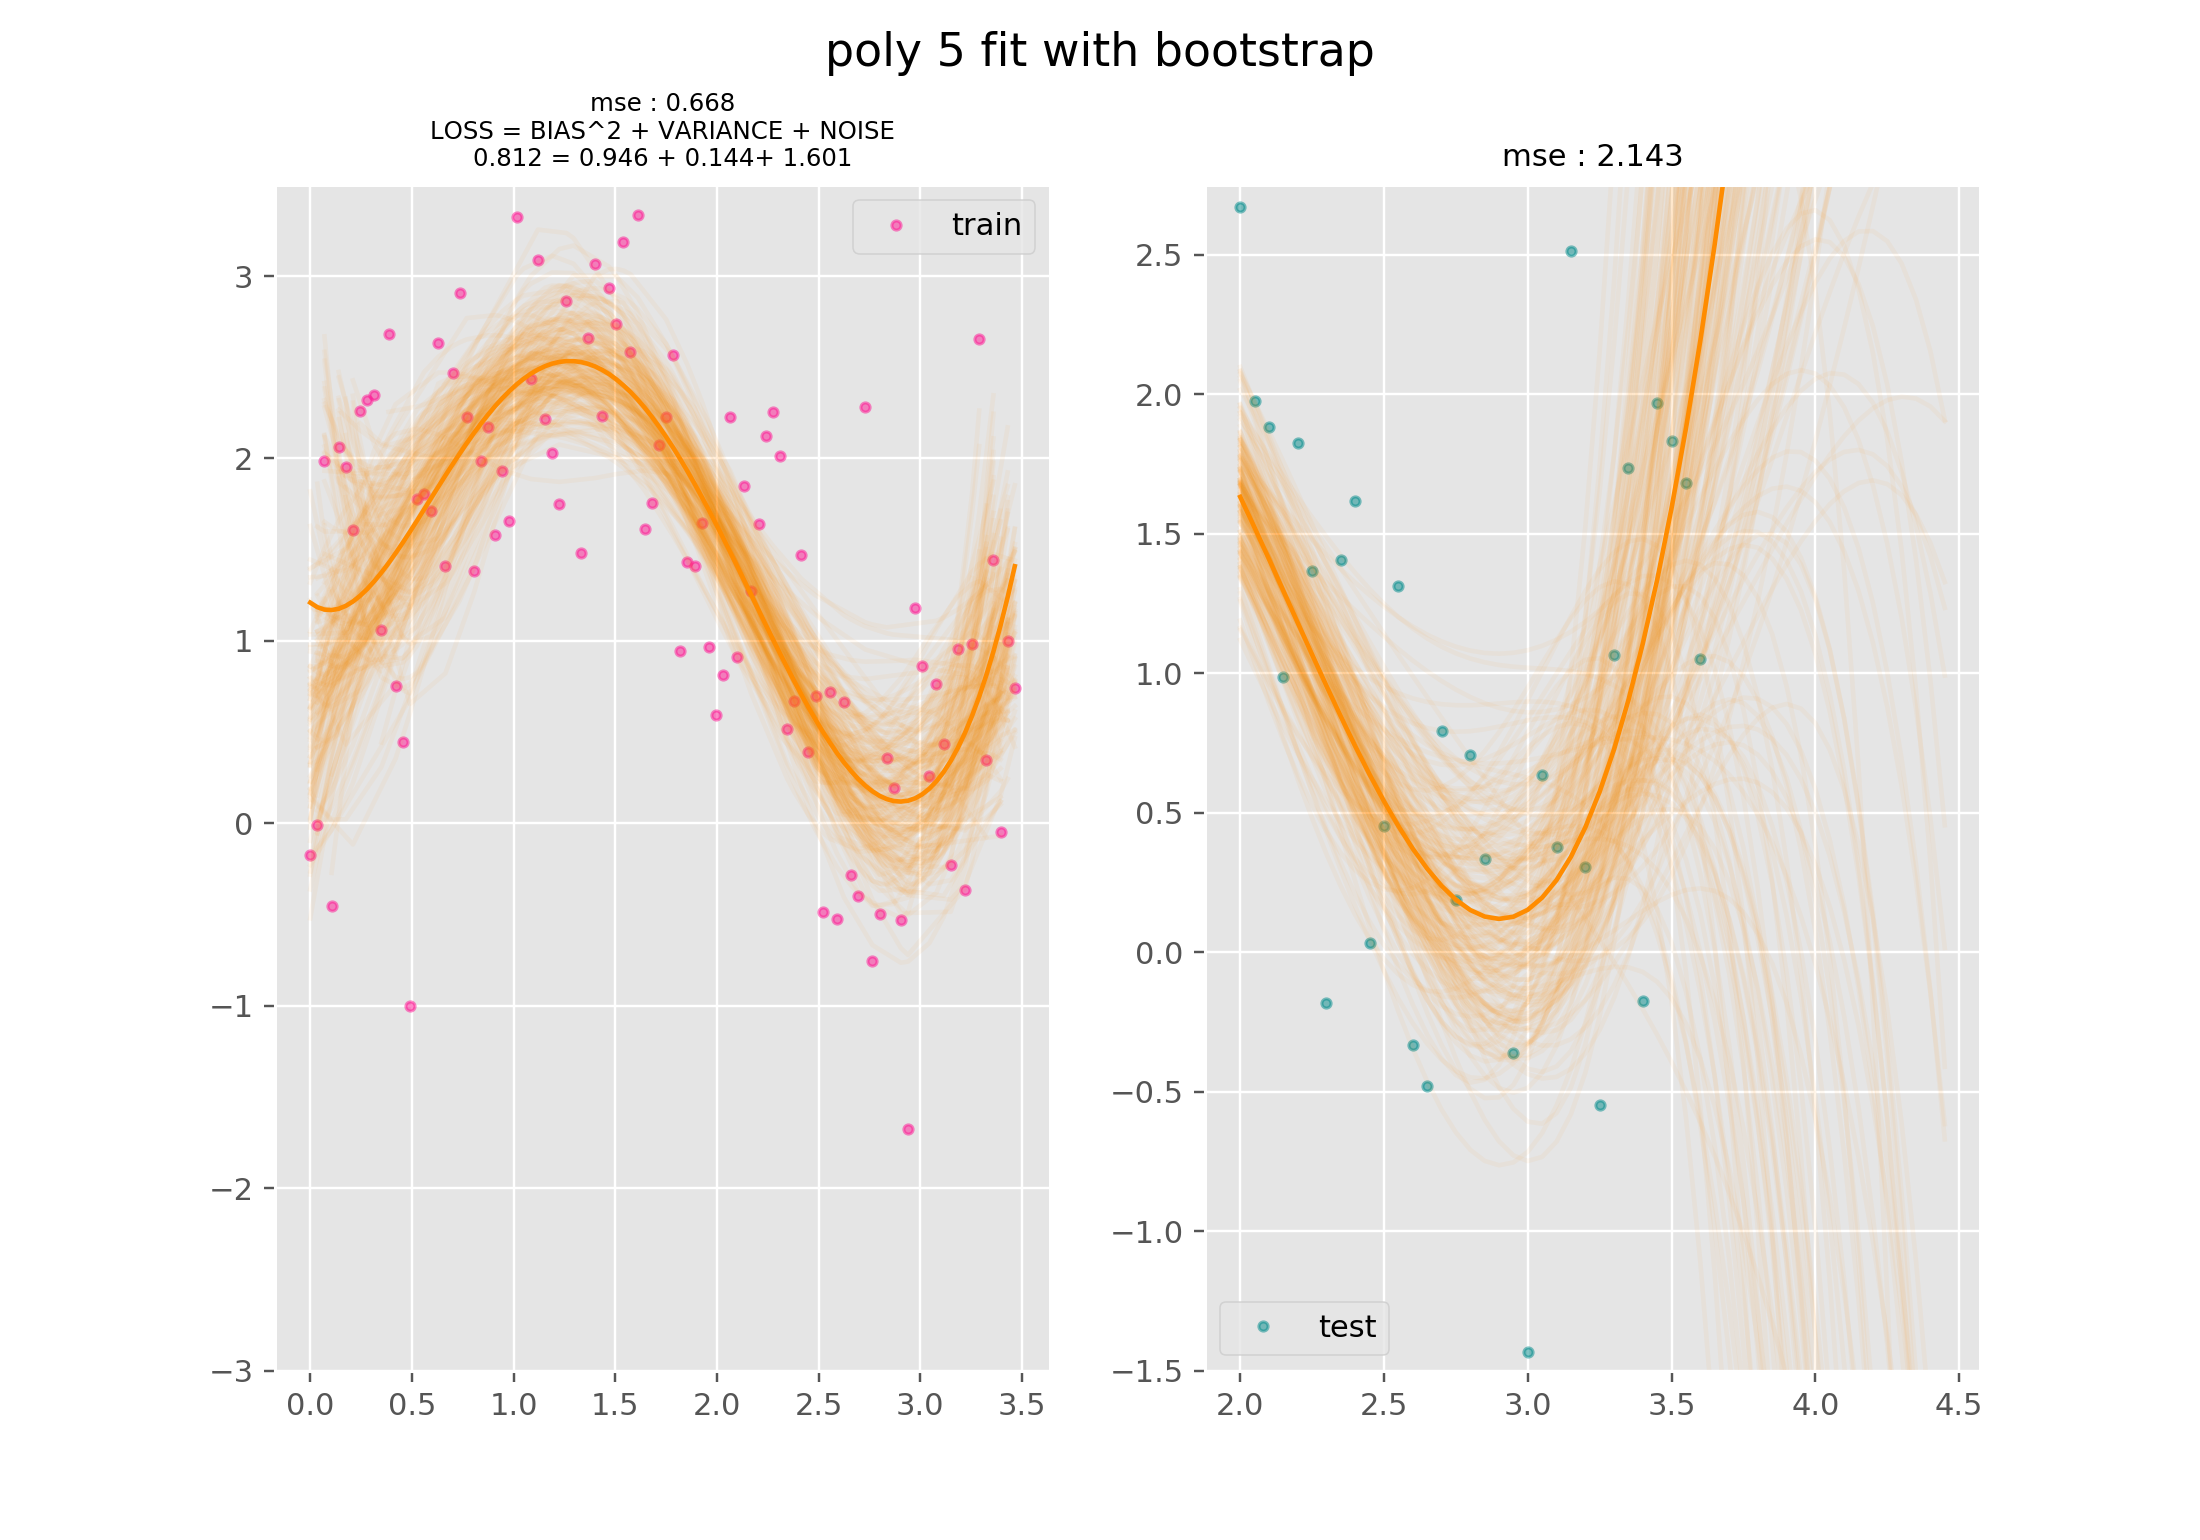
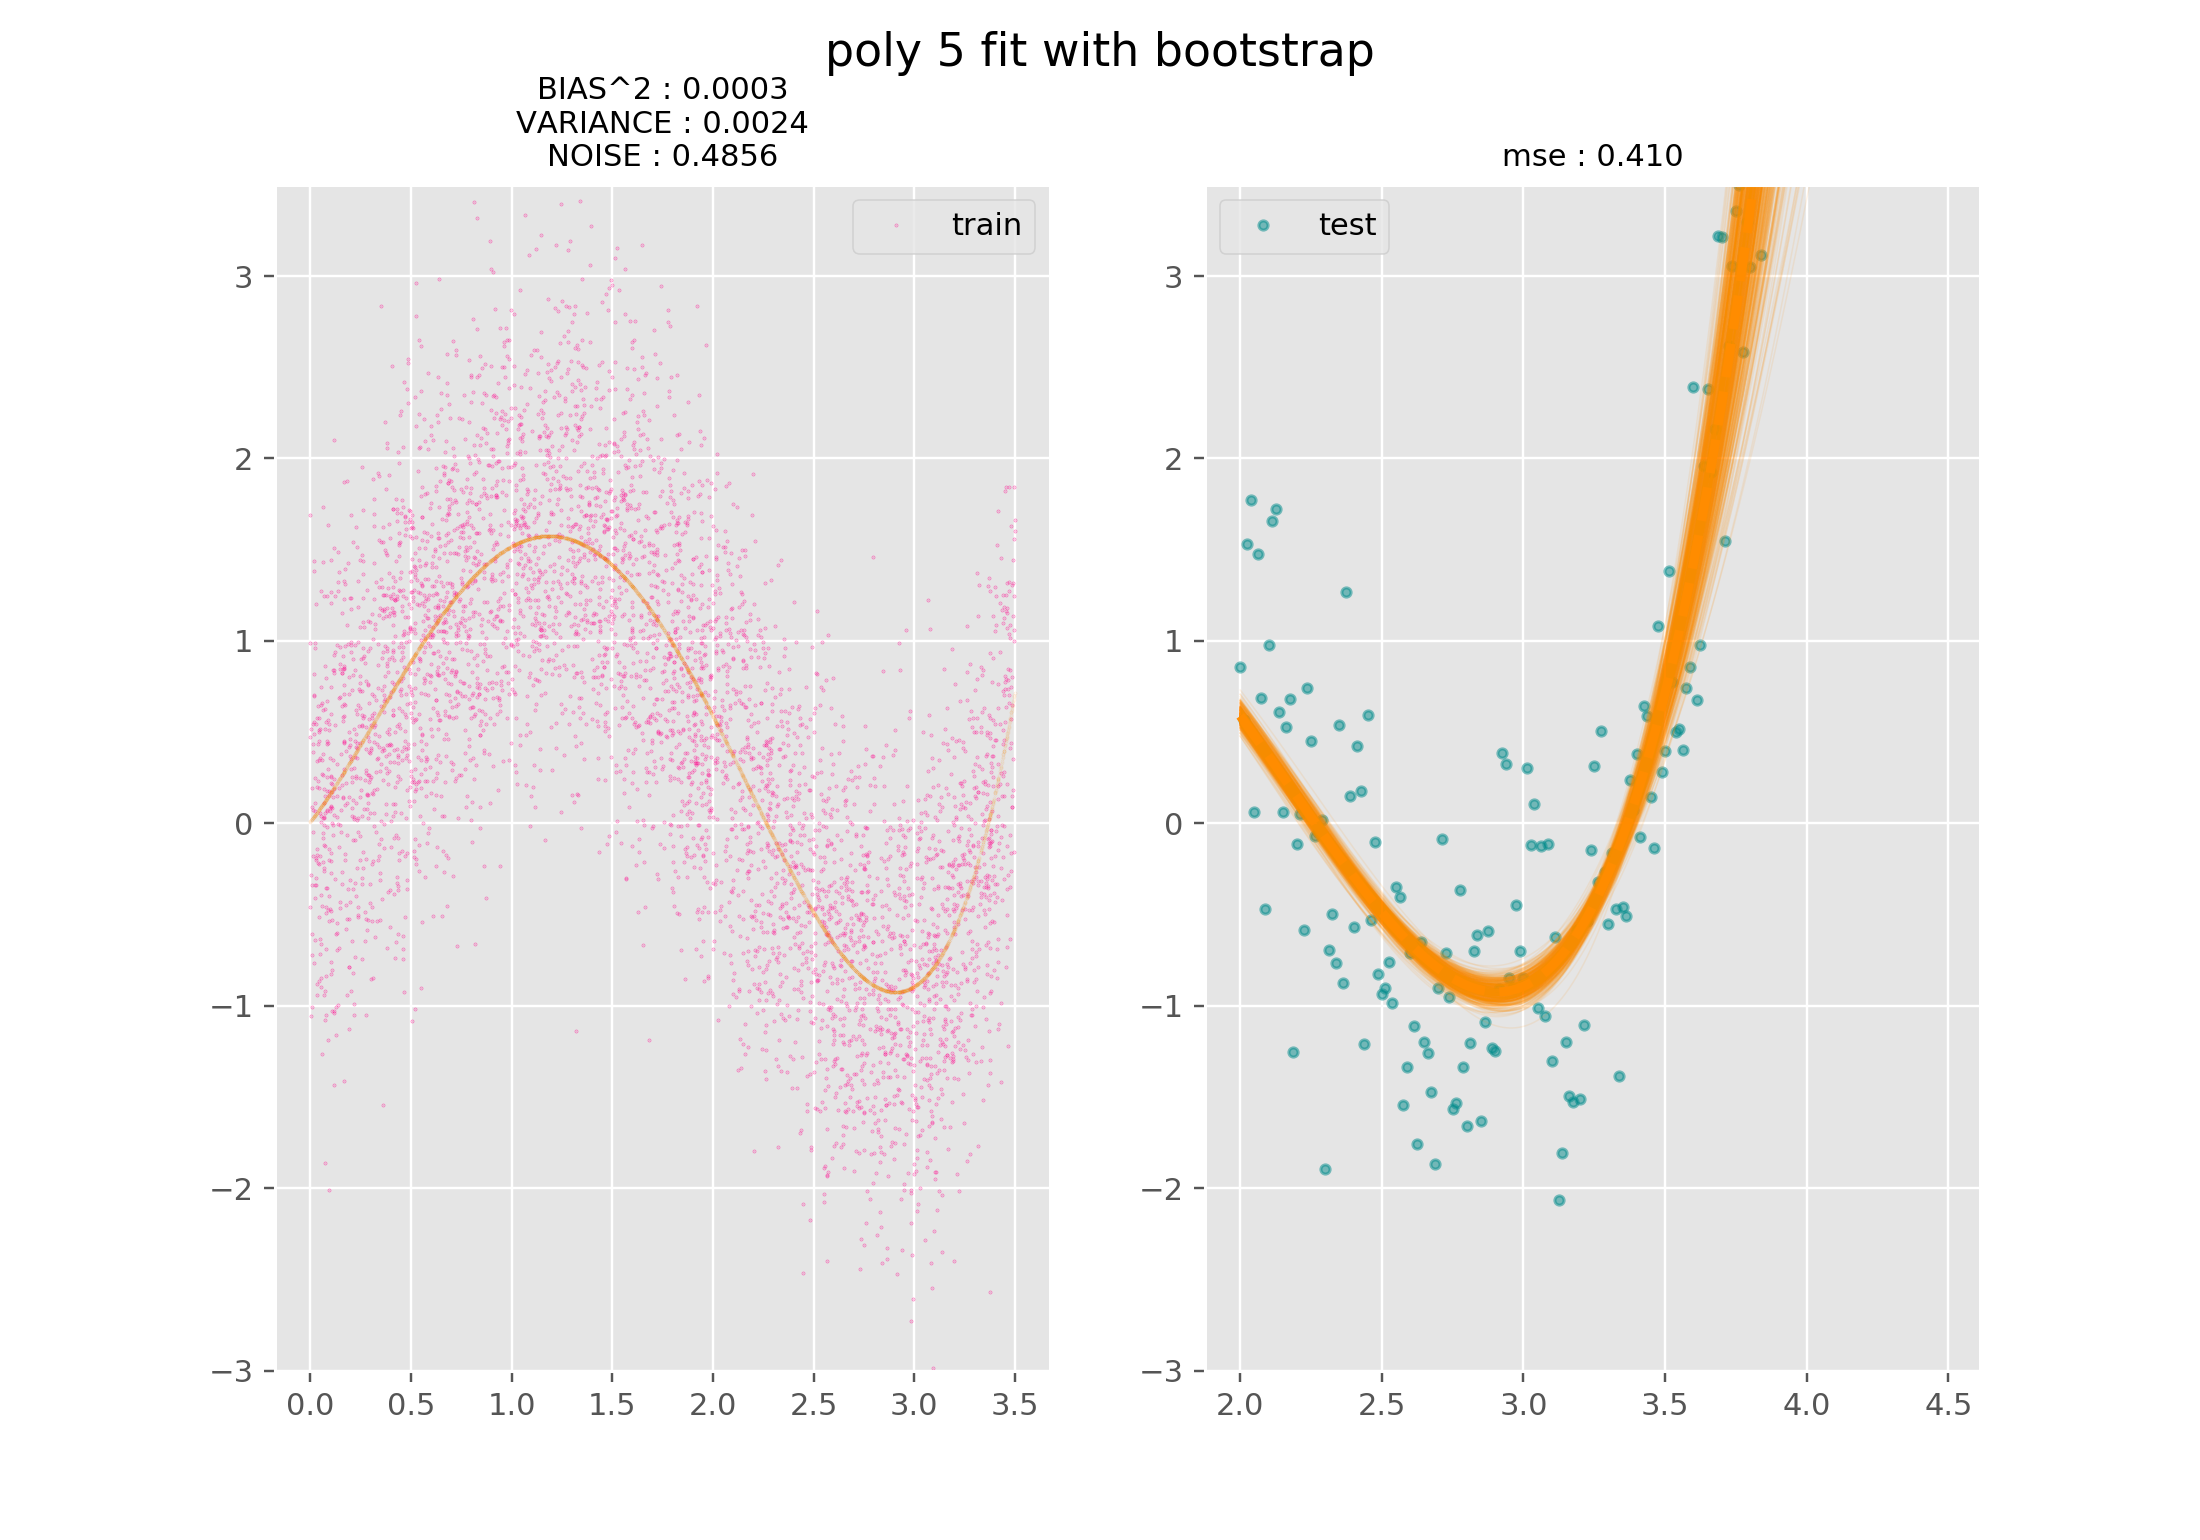
fixed bias variance

diff --git a/bias-variance/polynomial-fit.py b/bias-variance/polynomial-fit.py
@@ -24,10 +24,10 @@ plt.style.use('ggplot')
 
 c_true = [0.3, -1.5, 1.2, 1.5, 0]
 
-x = np.linspace(0, 3.5, 100, endpoint=False)
+x = np.linspace(0, 3.5, 200, endpoint=False)
 y = np.polyval(c_true, x)
 
-x_h = np.linspace(2, 4.5, 50, endpoint=False)
+x_h = np.linspace(2, 4.5, 200, endpoint=False)
 y_h = np.polyval(c_true, x_h)
 
 fig, ax = plt.subplots(figsize=(8, 8))
@@ -41,8 +41,8 @@ ax.legend()
 fig.show()
 fig.savefig('./bias-variance/poly.png', dpi=220)
 
-y += np.random.normal(0, 0.7, len(y)) + np.random.normal(1, 0.2, len(y))
-y_h += np.random.normal(0, 0.7, len(y_h)) + np.random.normal(1, 0.2, len(y_h))
+y += np.random.normal(0, 0.7, len(y))
+y_h += np.random.normal(0, 0.7, len(y_h))
 
 fig, ax = plt.subplots(figsize=(8, 8))
 ax.plot(x, y, '.', color='deeppink', markeredgecolor=None,
@@ -107,64 +107,77 @@ fig.show()
 fig.savefig('./bias-variance/polyfit-w-penalty.png', dpi=220)
 
 # committee
-n_boot = 200
-# poly = [3, 4, 5, 9]
-poly = [3]
+n_samp = 5000
+n_boot = 500
+samp_rate = 0.2
+poly = [3, 4, 5, 9]
+# poly = [3]
 np.random.seed(2019)
+
+x_samp = np.random.uniform(0, 3.5, n_samp)
+y_samp = np.polyval(c_true, x_samp)
+y_samp += np.random.normal(0, 0.7, n_samp)  # SD = 0.7
+
 for p, c in zip(poly, col):
+
+    noise = 0
+    loss = 0
+
     fig, ax = plt.subplots(1, 2, figsize=(10, 7))
     axes = ax.ravel()
-    axes[0].plot(x, y,
-                 '.', color='deeppink', markeredgecolor=None, alpha=0.5,
+    axes[0].plot(x_samp, y_samp,
+                 '.', color='deeppink', markersize=0.5,
+                 markeredgecolor=None, alpha=0.5,
                  label='train')
     axes[1].plot(x_h, y_h,
                  '.', color='darkcyan', markeredgecolor=None, alpha=0.5,
                  label='test')
-    y_ave_tr = np.zeros(len(x))
-    y_tr_df = pd.DataFrame({'y_train_true': np.polyval(c_true, x)})
-    y_ave_te = np.zeros(len(x_h))
-    for b in range(n_boot):
-        samp = np.random.choice(range(len(x)), int(0.5 * len(x)))
-        samp = np.sort(samp)
-        cc = np.polyfit(x[samp], y[samp], p)
-        y_tr = np.polyval(cc, x[samp])
-        y_ave_tr += np.polyval(cc, x) / n_boot
-        y_te = np.polyval(cc, x_h)
-        y_tr_df['y_train_{}'.format(b)] = np.polyval(cc, x)
-        y_ave_te += y_te / n_boot
-        axes[0].plot(x[samp], y_tr, '-', color=c, alpha=0.05)
-        axes[1].plot(x_h, y_te, '-', color=c, alpha=0.05)
-
-    # loss = ((y_tr_df.iloc[:, 1:].values - y_tr_df[
-    #     'y_train_true'].values.reshape(-1, 1)) ** 2 / len(
-    #     x) / n_boot).sum().sum()
-    loss = ((y_tr_df.iloc[:, 1:].values - y.reshape(-1, 1)) ** 2 / len(
-        x) / n_boot).sum().sum()
-
-    bias2 = ((y_ave_tr - y_tr_df['y_train_true']) ** 2 / len(x)).sum()
-    variance = ((y_tr_df.iloc[:, 1:].values - y_ave_tr.reshape(-1, 1)) ** 2 /
-                len(x) / n_boot).sum().sum()
-    noise = ((y_tr_df['y_train_true'].values - y) ** 2 / len(x)).sum()
-
-    eq_str = 'LOSS = BIAS^2 + VARIANCE + NOISE' + \
-             '\n{:.3f} = {:.3f} + {:.3f}+ {:.3f}'.format(
-                 loss, bias2, variance, noise)
-    print(eq_str)
-
-    axes[0].plot(x, y_ave_tr, '-', color=c, alpha=1)
-    axes[1].plot(x_h, y_ave_te, '-', color=c, alpha=1)
     axes[0].set_ylim(-3, 3.5)
-    axes[1].set_ylim(-1.5, 2.75)
+    axes[1].set_ylim(-3, 3.5)
+
+    y_ave_tr = np.zeros(len(x_samp))
+    y_tr_df = pd.DataFrame({'y_train_true': np.polyval(c_true, x_samp)})
+    y_ave_te = np.zeros(len(x_h))
+
+    for b in range(n_boot):
+        samp = np.random.choice(range(len(x_samp)),
+                                int(samp_rate * len(x_samp)),
+                                replace=False)
+        samp = np.sort(samp)
+        cc = np.polyfit(x_samp[samp], y_samp[samp], p)
+        y_tr = np.polyval(cc, x_samp[samp])
+        y_ave_tr += np.polyval(cc, x_samp) / n_boot
+        y_te = np.polyval(cc, x_h)
+        y_tr_df['y_train_{}'.format(b)] = np.polyval(cc, x_samp)
+        y_ave_te += y_te / n_boot
+        # axes[0].plot(x_samp[samp], y_tr,
+        #              '-', color=c, alpha=0.1, linewidth=0.5)
+        axes[1].plot(x_h, y_te, '-', color=c, alpha=0.1, linewidth=0.5)
+
+        noise += ((y_tr_df['y_train_true'].values - y_samp) ** 2).mean()
+        loss += ((np.polyval(cc, x_samp) - y_samp) ** 2).mean()
+
+    loss /= n_boot
+    noise /= n_boot
+    bias2 = ((y_ave_tr - y_tr_df['y_train_true']) ** 2).mean()
+    variance = ((y_tr_df.iloc[:, 1:].values - y_ave_tr.reshape(-1, 1)) **
+                2).mean().mean()
+    eq_str = 'LOSS = {:.4f}\nBIAS^2 + VARIANCE + NOISE = LOSS'.format(loss) + \
+             '\n{:.4f} + {:.4f}+ {:.4f} = {:.4f}'.format(
+                 bias2, variance, noise, bias2 + variance + noise)
+    print(eq_str)  # wired...
+
+    title_sqr = 'BIAS^2 : {:.4f}\nVARIANCE : {:.4f}\nNOISE : {:.4f}'.format(
+        bias2, variance, noise)
+    axes[0].plot(x_samp, y_ave_tr, '.', color=c,
+                 alpha=0.1, markersize=0.3, markeredgecolor=None)
+    axes[1].plot(x_h, y_ave_te, '--', color=c, alpha=1, linewidth=3)
     axes[0].legend()
     axes[1].legend()
-
-    # TODO : bias and variance => train
-    axes[0].set_title('mse : {:.3f}\n{}'.format(
-        mean_squared_error(y, y_ave_tr), eq_str), fontsize=8)
+    axes[0].set_title('{}'.format(title_sqr), fontsize=10)
     axes[1].set_title('mse : {:.3f}'.format(
         mean_squared_error(y_h, y_ave_te)), fontsize=10)
-    fig.suptitle('poly {} fit with bootstrap'.format(p),
-                 fontsize=15)
+    fig.suptitle('poly {} fit with bootstrap'.format(p), fontsize=15)
     fig.show()
     fig.savefig('./bias-variance/poly{}fit-w-bootstrap.png'.format(p),
                 dpi=220)
